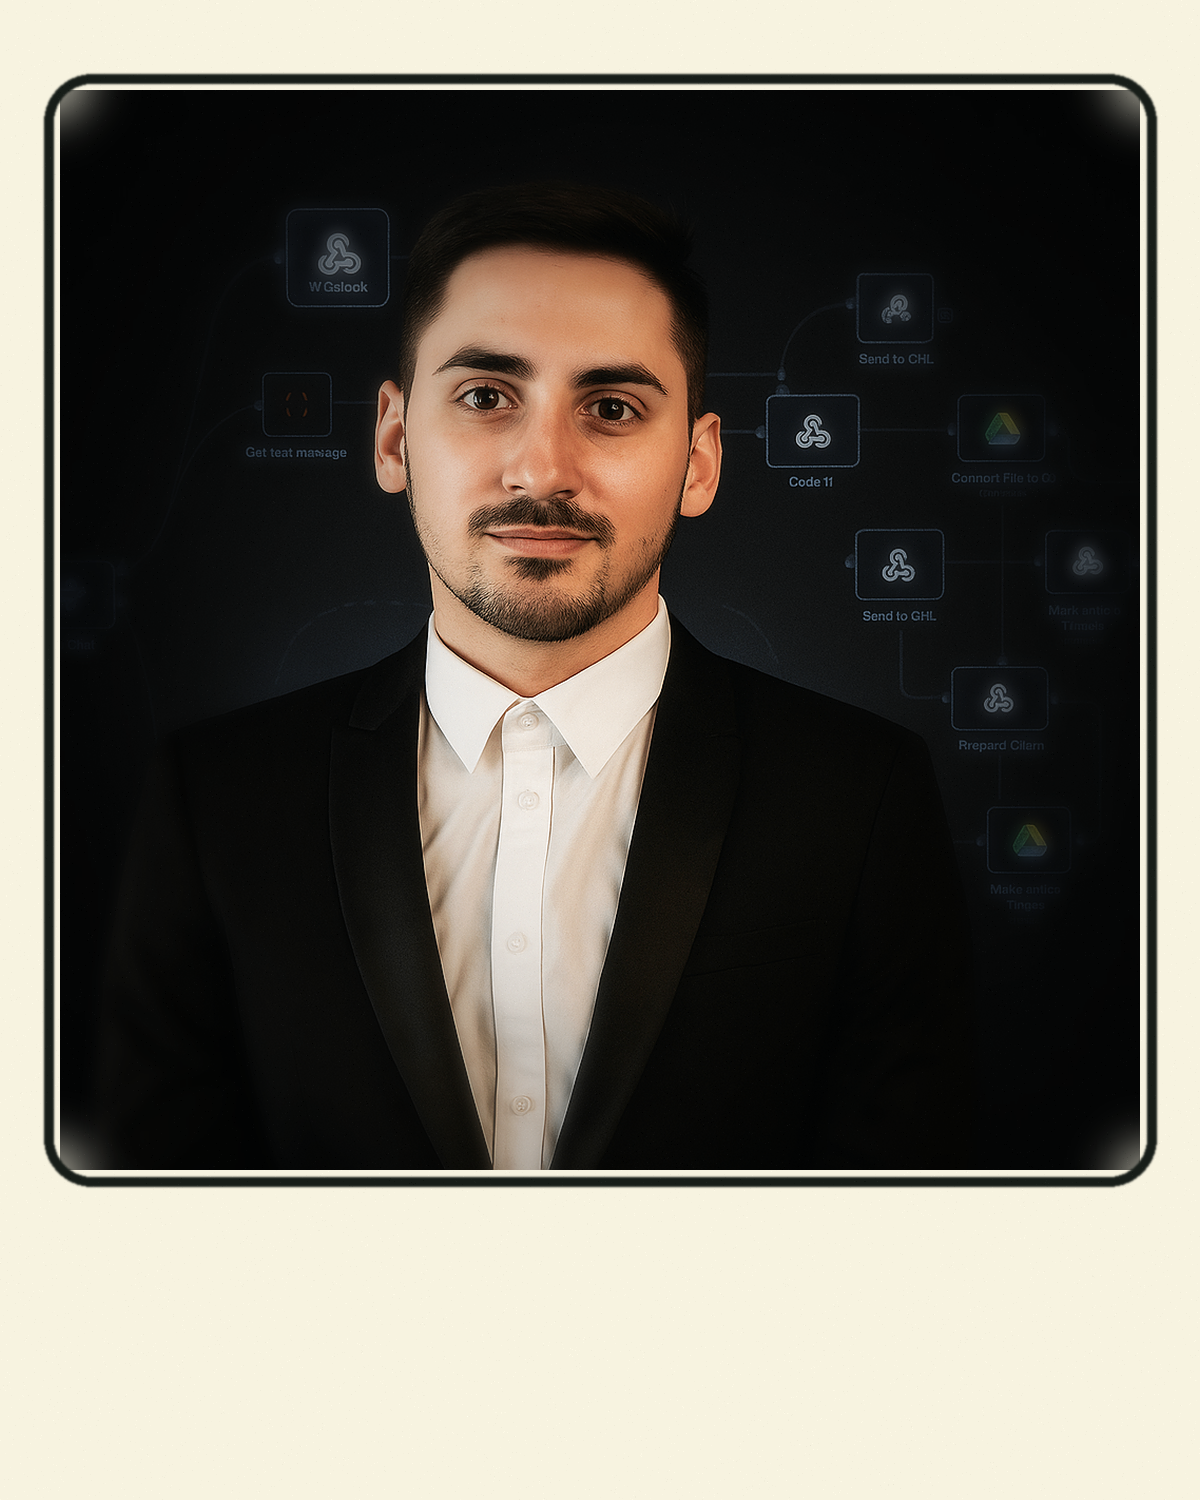
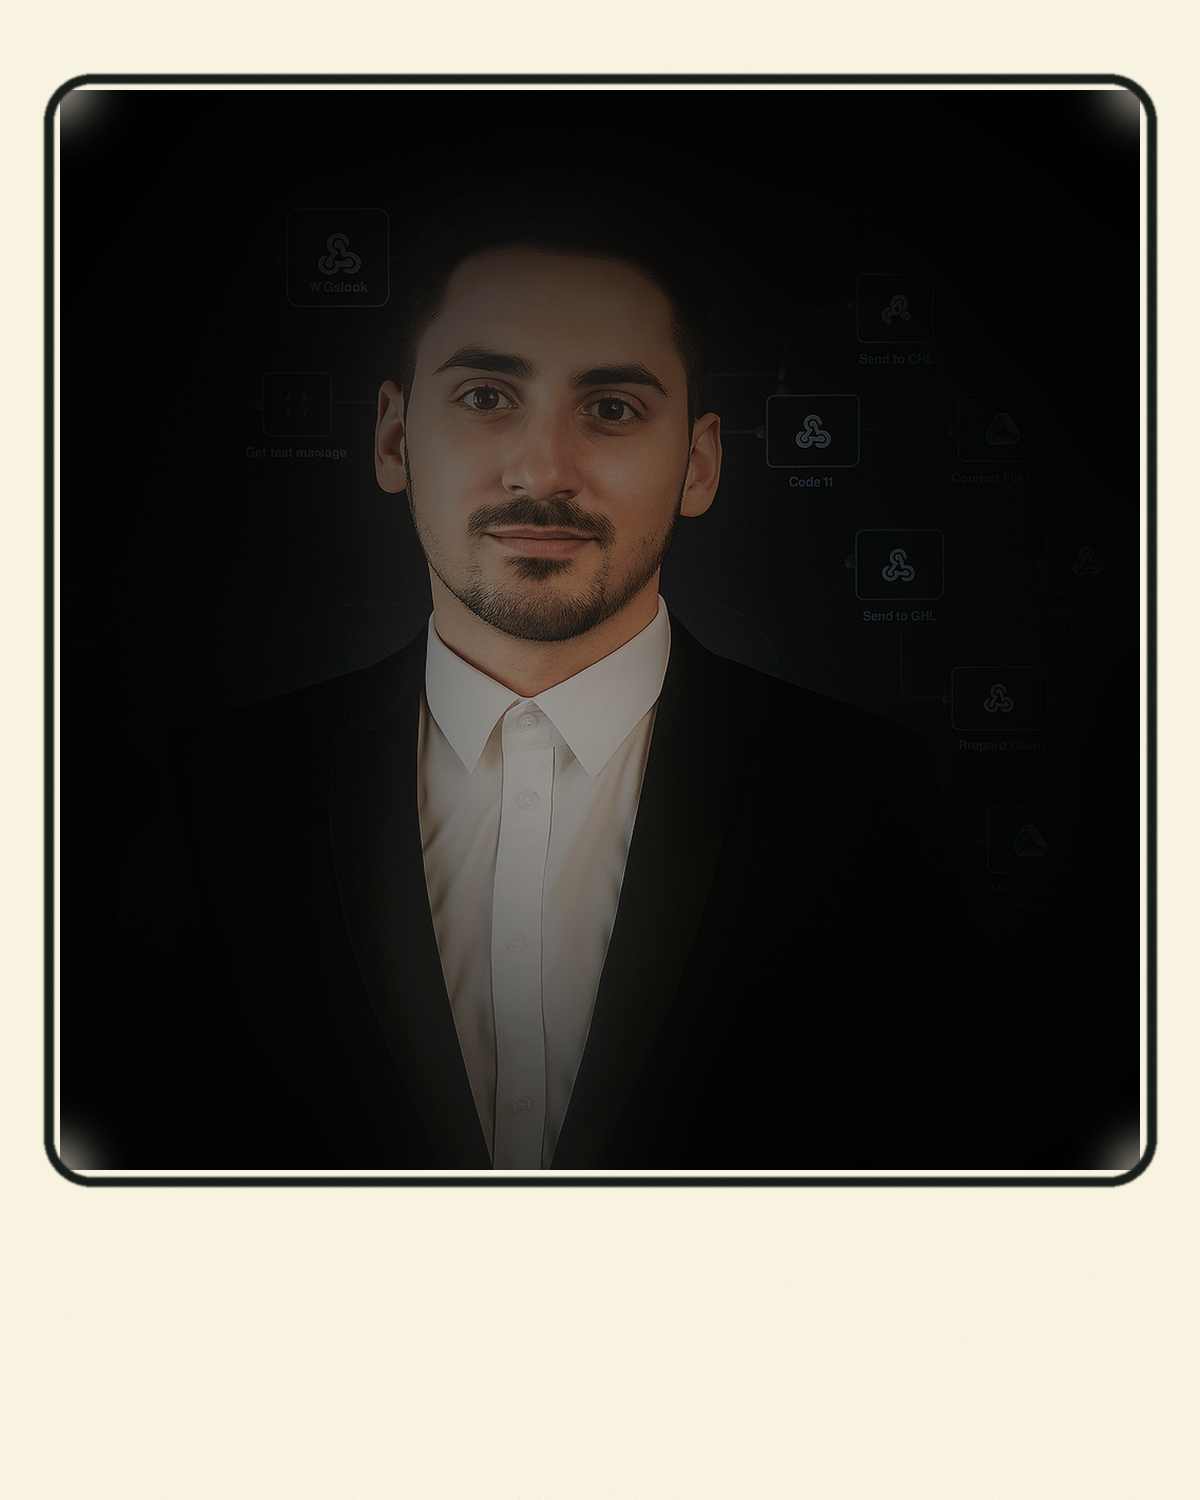
V2 follow-up: extreme-crush background in about card, entry portrait art, css scope fix

diff --git a/app/src/styles.css b/app/src/styles.css
@@ -531,6 +531,28 @@ html { scroll-behavior: smooth; }
   font-size: clamp(1rem, 2vw, 1.12rem);
   line-height: 1.55;
 }
+.cg-entry__figure {
+  margin-top: 34px;
+  display: flex;
+  flex-direction: column;
+  align-items: center;
+  gap: 8px;
+}
+.cg-entry__img {
+  width: 168px;
+  height: 210px;
+  object-fit: cover;
+  object-position: center 22%;
+  border: 2px solid var(--cg-ink);
+  border-radius: 20px;
+  box-shadow: 6px 7px 0 color-mix(in srgb, var(--cg-ink) 22%, transparent);
+  transform: rotate(-1.4deg);
+}
+.cg-entry__figure-cap {
+  font-family: "Caveat", ui-rounded, cursive;
+  font-size: 1.4rem;
+  color: var(--cg-frunz);
+}
 .cg-entry__cards {
   margin-top: 48px;
   display: grid;

diff --git a/app/src/routes/entry.tsx b/app/src/routes/entry.tsx
@@ -51,6 +51,15 @@ function Entry() {
           Watch the mascot walk a broken business back to one connected system, or skip the story and go straight to what CIGGA-Labs does.
         </p>
 
+        <div className="cg-entry__figure" aria-hidden="true">
+          <img
+            src="/assets/gabriel-about.png"
+            alt=""
+            className="cg-entry__img"
+          />
+          <span className="cg-entry__figure-cap">and this is your host ↓</span>
+        </div>
+
         <div className="cg-entry__cards">
           <Link to="/" className="cg-entry-card cg-entry-card--story" aria-label="Enter the story">
             <span className="cg-entry-card__num">01</span>
